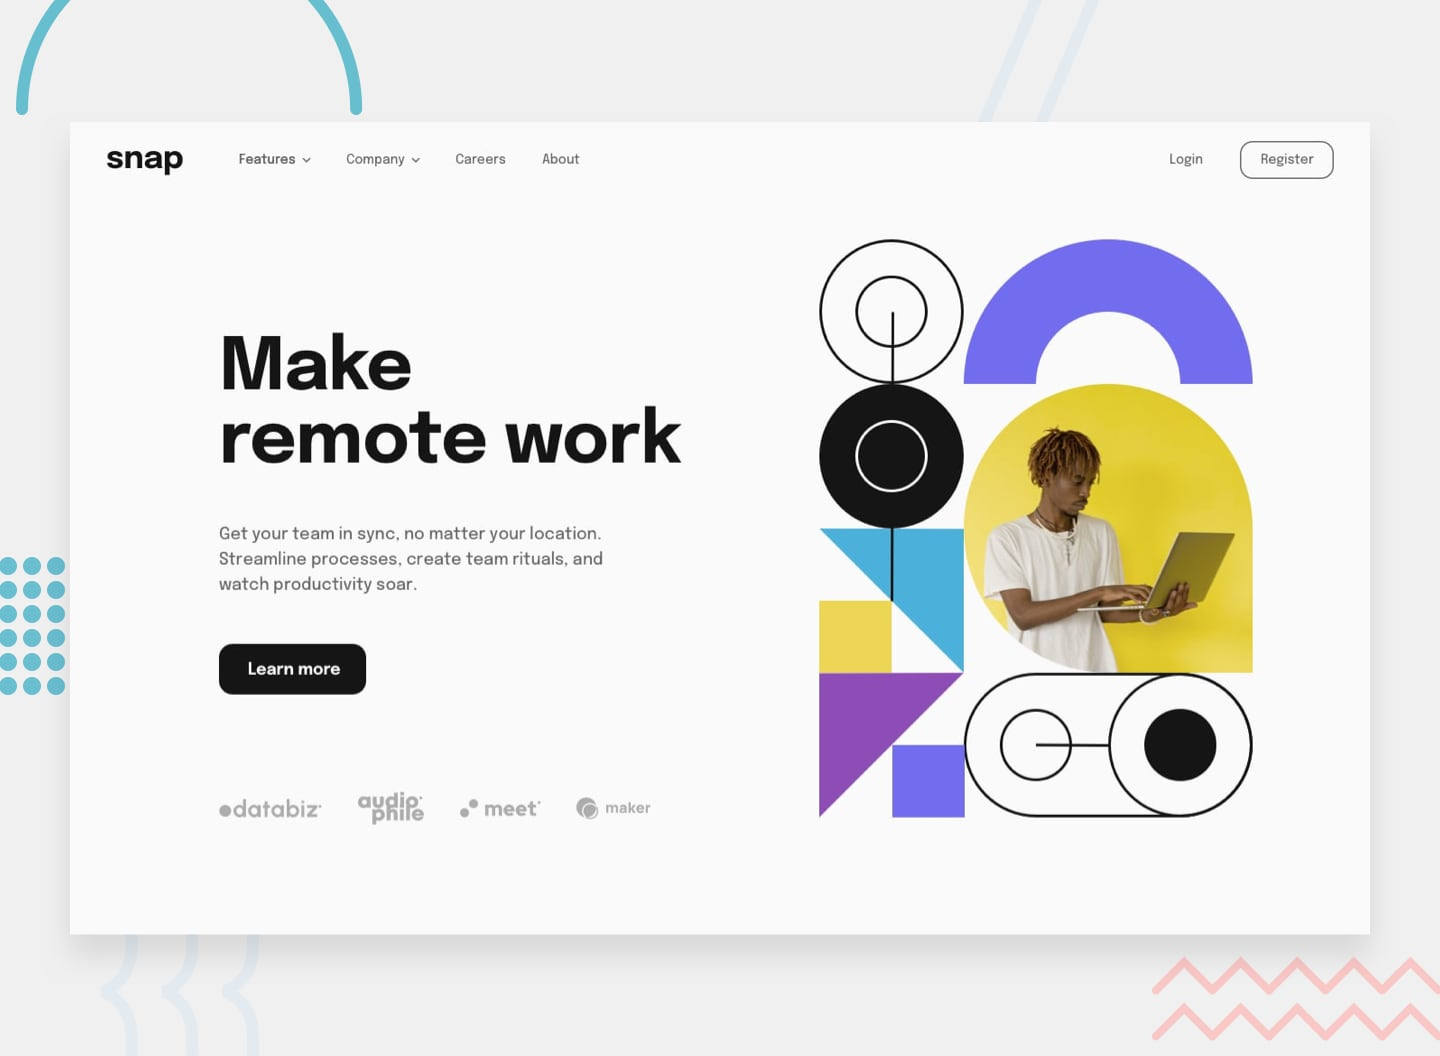
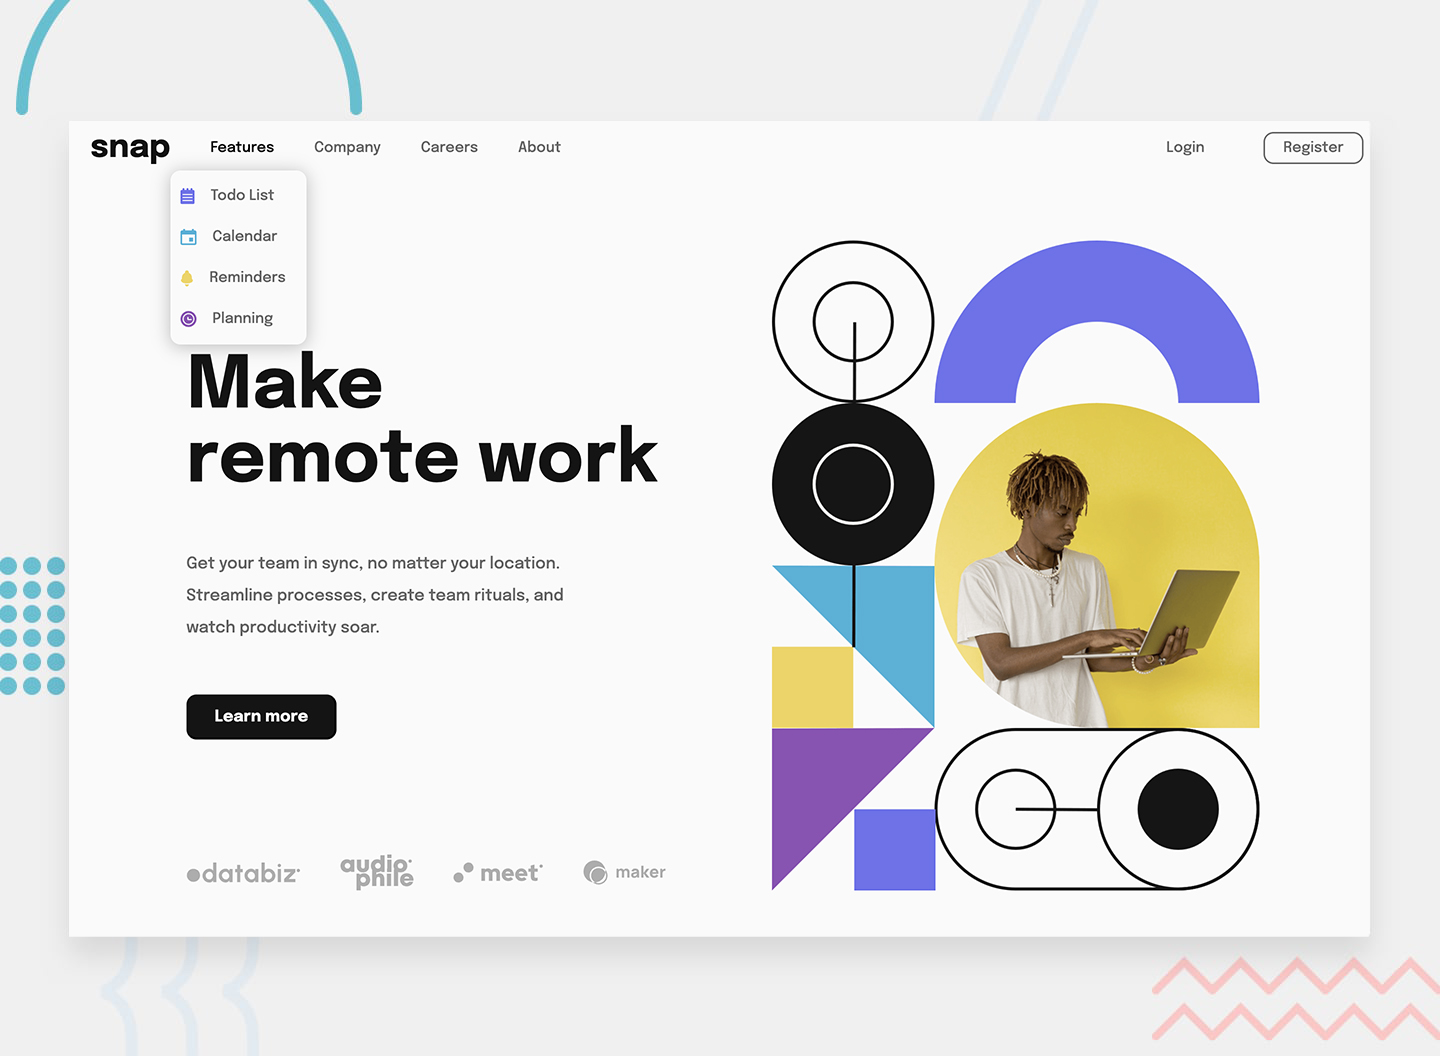
small changes, update readme

diff --git a/index.html b/index.html
@@ -3,7 +3,7 @@
   <head>
     <meta charset="UTF-8" />
     <meta name="viewport" content="width=device-width, initial-scale=1.0" />
-    <title>Frontend Mentor | Intro section with dropdown navigation</title>
+    <title>Intro section with dropdown navigation</title>
 
     <link
       rel="icon"

diff --git a/css/styles.css b/css/styles.css
@@ -102,7 +102,7 @@ body {
 
 /* Landing Page Container */
 .landing-page-container {
-  margin: 70px 0px 0 120px;
+  margin: 70px 120px 0 120px;
   display: flex;
   align-items: flex-end;
   justify-content: space-around;

diff --git a/README.md b/README.md
@@ -2,92 +2,113 @@
 
 ![Design preview for the Intro section with dropdown navigation coding challenge](./design/desktop-preview.jpg)
 
-## Welcome! 👋
+This is a solution to the [Intro section with dropdown navigation challenge on Frontend Mentor](https://www.frontendmentor.io/challenges/intro-section-with-dropdown-navigation-ryaPetHE5). Frontend Mentor challenges help you improve your coding skills by building realistic projects. 
 
-Thanks for checking out this front-end coding challenge.
+## Table of contents
 
-[Frontend Mentor](https://www.frontendmentor.io) challenges help you improve your coding skills by building realistic projects.
+- [Overview](#overview)
+  - [The challenge](#the-challenge)
+  - [Screenshot](#screenshot)
+  - [Links](#links)
+- [My process](#my-process)
+  - [Built with](#built-with)
+  - [What I learned](#what-i-learned)
+  - [Continued development](#continued-development)
+  - [Useful resources](#useful-resources)
+- [Author](#author)
+- [Acknowledgments](#acknowledgments)
 
-**To do this challenge, you need a basic understanding of HTML, CSS and JavaScript.**
+**Note: Delete this note and update the table of contents based on what sections you keep.**
 
-## The challenge
+## Overview
 
-Your challenge is to build out this intro section with dropdown navigation and get it looking as close to the design as possible.
+### The challenge
 
-You can use any tools you like to help you complete the challenge. So if you've got something you'd like to practice, feel free to give it a go.
-
-Your users should be able to:
+Users should be able to:
 
 - View the relevant dropdown menus on desktop and mobile when interacting with the navigation links
 - View the optimal layout for the content depending on their device's screen size
 - See hover states for all interactive elements on the page
 
-Want some support on the challenge? [Join our Slack community](https://www.frontendmentor.io/slack) and ask questions in the **#help** channel.
+### Screenshot
 
-## Where to find everything
+![](./screenshot.jpg)
 
-Your task is to build out the project to the designs inside the `/design` folder. You will find both a mobile and a desktop version of the design. 
+Add a screenshot of your solution. The easiest way to do this is to use Firefox to view your project, right-click the page and select "Take a Screenshot". You can choose either a full-height screenshot or a cropped one based on how long the page is. If it's very long, it might be best to crop it.
 
-The designs are in JPG static format. Using JPGs will mean that you'll need to use your best judgment for styles such as `font-size`, `padding` and `margin`. 
+Alternatively, you can use a tool like [FireShot](https://getfireshot.com/) to take the screenshot. FireShot has a free option, so you don't need to purchase it. 
 
-If you would like the design files (we provide Sketch & Figma versions) to inspect the design in more detail, you can [subscribe as a PRO member](https://www.frontendmentor.io/pro).
+Then crop/optimize/edit your image however you like, add it to your project, and update the file path in the image above.
 
-You will find all the required assets in the `/images` folder. The assets are already optimized.
+**Note: Delete this note and the paragraphs above when you add your screenshot. If you prefer not to add a screenshot, feel free to remove this entire section.**
 
-There is also a `style-guide.md` file containing the information you'll need, such as color palette and fonts.
+### Links
 
-## Building your project
+- Solution URL: [Add solution URL here](https://your-solution-url.com)
+- Live Site URL: [Add live site URL here](https://your-live-site-url.com)
 
-Feel free to use any workflow that you feel comfortable with. Below is a suggested process, but do not feel like you need to follow these steps:
+## My process
 
-1. Initialize your project as a public repository on [GitHub](https://github.com/). Creating a repo will make it easier to share your code with the community if you need help. If you're not sure how to do this, [have a read-through of this Try Git resource](https://try.github.io/).
-2. Configure your repository to publish your code to a web address. This will also be useful if you need some help during a challenge as you can share the URL for your project with your repo URL. There are a number of ways to do this, and we provide some recommendations below.
-3. Look through the designs to start planning out how you'll tackle the project. This step is crucial to help you think ahead for CSS classes to create reusable styles.
-4. Before adding any styles, structure your content with HTML. Writing your HTML first can help focus your attention on creating well-structured content.
-5. Write out the base styles for your project, including general content styles, such as `font-family` and `font-size`.
-6. Start adding styles to the top of the page and work down. Only move on to the next section once you're happy you've completed the area you're working on.
+### Built with
 
-## Deploying your project
+- Semantic HTML5 markup
+- CSS custom properties
+- Flexbox
+- CSS Grid
+- Mobile-first workflow
+- [React](https://reactjs.org/) - JS library
+- [Next.js](https://nextjs.org/) - React framework
+- [Styled Components](https://styled-components.com/) - For styles
 
-As mentioned above, there are many ways to host your project for free. Our recommend hosts are:
+**Note: These are just examples. Delete this note and replace the list above with your own choices**
 
-- [GitHub Pages](https://pages.github.com/)
-- [Vercel](https://vercel.com/)
-- [Netlify](https://www.netlify.com/)
+### What I learned
 
-You can host your site using one of these solutions or any of our other trusted providers. [Read more about our recommended and trusted hosts](https://medium.com/frontend-mentor/frontend-mentor-trusted-hosting-providers-bf000dfebe).
+Use this section to recap over some of your major learnings while working through this project. Writing these out and providing code samples of areas you want to highlight is a great way to reinforce your own knowledge.
 
-## Create a custom `README.md`
+To see how you can add code snippets, see below:
 
-We strongly recommend overwriting this `README.md` with a custom one. We've provided a template inside the [`README-template.md`](./README-template.md) file in this starter code.
+```html
+<h1>Some HTML code I'm proud of</h1>
+```
+```css
+.proud-of-this-css {
+  color: papayawhip;
+}
+```
+```js
+const proudOfThisFunc = () => {
+  console.log('🎉')
+}
+```
 
-The template provides a guide for what to add. A custom `README` will help you explain your project and reflect on your learnings. Please feel free to edit our template as much as you like.
+If you want more help with writing markdown, we'd recommend checking out [The Markdown Guide](https://www.markdownguide.org/) to learn more.
 
-Once you've added your information to the template, delete this file and rename the `README-template.md` file to `README.md`. That will make it show up as your repository's README file.
+**Note: Delete this note and the content within this section and replace with your own learnings.**
 
-## Submitting your solution
+### Continued development
 
-Submit your solution on the platform for the rest of the community to see. Follow our ["Complete guide to submitting solutions"](https://medium.com/frontend-mentor/a-complete-guide-to-submitting-solutions-on-frontend-mentor-ac6384162248) for tips on how to do this.
+Use this section to outline areas that you want to continue focusing on in future projects. These could be concepts you're still not completely comfortable with or techniques you found useful that you want to refine and perfect.
 
-Remember, if you're looking for feedback on your solution, be sure to ask questions when submitting it. The more specific and detailed you are with your questions, the higher the chance you'll get valuable feedback from the community.
+**Note: Delete this note and the content within this section and replace with your own plans for continued development.**
 
-## Sharing your solution
+### Useful resources
 
-There are multiple places you can share your solution:
+- [Example resource 1](https://www.example.com) - This helped me for XYZ reason. I really liked this pattern and will use it going forward.
+- [Example resource 2](https://www.example.com) - This is an amazing article which helped me finally understand XYZ. I'd recommend it to anyone still learning this concept.
 
-1. Share your solution page in the **#finished-projects** channel of the [Slack community](https://www.frontendmentor.io/slack). 
-2. Tweet [@frontendmentor](https://twitter.com/frontendmentor) and mention **@frontendmentor**, including the repo and live URLs in the tweet. We'd love to take a look at what you've built and help share it around.
-3. Share your solution on other social channels like LinkedIn.
-4. Blog about your experience building your project. Writing about your workflow, technical choices, and talking through your code is a brilliant way to reinforce what you've learned. Great platforms to write on are [dev.to](https://dev.to/), [Hashnode](https://hashnode.com/), and [CodeNewbie](https://community.codenewbie.org/).
+**Note: Delete this note and replace the list above with resources that helped you during the challenge. These could come in handy for anyone viewing your solution or for yourself when you look back on this project in the future.**
 
-We provide templates to help you share your solution once you've submitted it on the platform. Please do edit them and include specific questions when you're looking for feedback. 
+## Author
 
-The more specific you are with your questions the more likely it is that another member of the community will give you feedback.
+- Website - [Add your name here](https://www.your-site.com)
+- Frontend Mentor - [@yourusername](https://www.frontendmentor.io/profile/yourusername)
+- Twitter - [@yourusername](https://www.twitter.com/yourusername)
 
-## Got feedback for us?
+**Note: Delete this note and add/remove/edit lines above based on what links you'd like to share.**
 
-We love receiving feedback! We're always looking to improve our challenges and our platform. So if you have anything you'd like to mention, please email hi[at]frontendmentor[dot]io.
+## Acknowledgments
 
-This challenge is completely free. Please share it with anyone who will find it useful for practice.
+This is where you can give a hat tip to anyone who helped you out on this project. Perhaps you worked in a team or got some inspiration from someone else's solution. This is the perfect place to give them some credit.
 
-**Have fun building!** 🚀
+**Note: Delete this note and edit this section's content as necessary. If you completed this challenge by yourself, feel free to delete this section entirely.**
